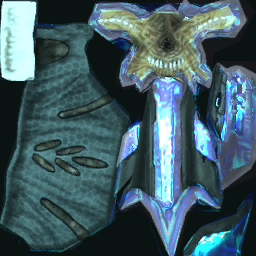
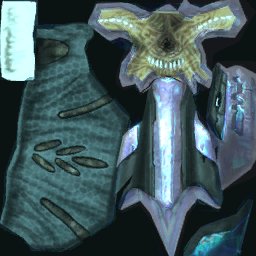
Ranger helmet in its body's material, cube-mapped eye lenses; deep-fried skin check
- The Ranger's helmet is baked like its body (the steel recolour and the Elites' armour reflection), brought down
  to the body's tone first; the Ranger's armour reflection is gentler overall
- The Ranger's eye lenses use the visor shader (a cube map per pixel), their normals bowed so it sweeps across them
- skin_check.py: every baked skin is scored against its source after each build (blown highlights, washed-out
  glare, brightness lift, crushed blacks, over-sharpening); HCE_STRICT_SKINS=1 fails the build

Claude-Session: https://claude.ai/code/session_01Ja8vbkayn83DPTjJrhXLXZ

diff --git a/docs/PACK_README.md b/docs/PACK_README.md
@@ -309,7 +309,7 @@ DoomEdNums 30284–30316 (alphabetical: `HCE_MarineArmoredBattleRifle` … `HCE_
   * They get the same baked armour shine as the other Grunts, and are in the `HCE_RandomGrunt` / `HCE_RandomGruntSpecOps` spawners; Doom's monsters aren't replaced by them.
 * **Elite Heavy (new, green):** a rank between the Major and the Commander, in a deep green (the blue Minor's painted armour turned green, its shading and shine kept): 125 health and a 200-point shield, the Major's combat behaviour, and the heavier guns: the fuel rod in Halo 2's fuel-rod stance (`HCE_EliteHeavyFuelRod`, 30322), the plasma rifle (`HCE_EliteHeavyPlasmaRifle`, 30324) and the needler (`HCE_EliteHeavyNeedler`, 30323). In the random Elite pool, and among the Hell Knights' replacements on the harder skill levels.
 * **Honor Guard Elites (new):** the High Council's guard in Halo 2's honour armour, worn over the Halo CE Elite (`extract_h2_elite_kit.py`: Halo 2's Elite and Halo CE's are the same skeleton, so its pieces are carried bone by bone onto the CE Elite and play every CE animation). The tall twin-crested ceremonial helmet over Halo 2's Elite head, and the honour plates on the shoulders, arms and thighs, blue with their glowing red markings; the CE Elite's own head and helmet are cut away underneath, so nothing clashes. The Commander's build (they guard the Prophets) in a crimson harness, with the **plasma rifle** (`HCE_EliteHonorGuardPlasmaRifle`, 30345), the **energy sword** (`HCE_EliteHonorGuardEnergySword`, 30344, charging and berserk like the sword Elites) or the **plasma carbine** (`HCE_EliteHonorGuardPlasmaCarbine`, 30457, Digsite add-on): the Honor Guards' guns in Halo's fiction. A severed head takes the helmet with it, a severed arm its plates.
-* **Ranger Elites (new):** Halo 2's EVA Elites from Regret's towers, with a **jump pack**. Halo 2's sealed Ranger helmet, with its gold lens, over the CE Elite with its own head cut away, and Halo 2's jump pack on its back (placed where Halo 2's Ranger carries it), in pale EVA steel. A Minor's build (Halo 2's `elite_ranger` char: 30 body, 70 shield), with the **plasma rifle** (`HCE_EliteRangerPlasmaRifle`, 30347), the **needler** (`HCE_EliteRangerNeedler`, 30346) or the **plasma carbine** (`HCE_EliteRangerPlasmaCarbine`, 30458, Digsite add-on).
+* **Ranger Elites (new):** Halo 2's EVA Elites from Regret's towers, with a **jump pack**. Halo 2's sealed Ranger helmet, with its gold eye lenses (reflecting a cube map per pixel like the ODST visors, the glass bowed so the reflection sweeps across it), over the CE Elite with its own head cut away, and Halo 2's jump pack on its back (placed where Halo 2's Ranger carries it), in pale EVA steel; the helmet is baked in the same material as the body (the same steel and the same, gentler, armour reflection). A Minor's build (Halo 2's `elite_ranger` char: 30 body, 70 shield), with the **plasma rifle** (`HCE_EliteRangerPlasmaRifle`, 30347), the **needler** (`HCE_EliteRangerNeedler`, 30346) or the **plasma carbine** (`HCE_EliteRangerPlasmaCarbine`, 30458, Digsite add-on).
   * **The jump pack:** now and then in a fight, with its enemy in sight, a Ranger fires the pack and lifts onto higher ground near by (a ledge, a crate, a balcony with room to stand) or, with none, hops to a fresh spot at fighting range. It climbs on a jet of blue exhaust and drifts down slowly on the pack, firing as it goes; spots are open floor (never a damaging one) with headroom, no wall in the way at the height of the hop and not too close to the enemy. HaloDoom Evolved's jetpack sounds where HDE is loaded.
 * **Fuel-rod Elite (new, `HCE_EliteMajorFuelRod`, 30282):** a Major Elite with the fuel rod gun, in **Halo 2's fuel-rod stance**. Halo CE's and Halo 2's Elites are the same 3ds Max biped: every CE bone has a Halo 2 twin with the same parent and the same offset in its parent's frame, so Halo 2's animations play on the CE Elite as they are (`h2_elite_anims.py`). It gets Halo 2's fuel-rod idle, moves, turns, dives, evades, grenade throw, berserk, melee and the firing overlay. Its firing data is the Spec Ops Grunt's fuel rod; it drops HDE's fuel rod.
 * **Beam-rifle Spec Ops Elite (new, `HCE_EliteSpecopsBeamRifle`, 30283):** the Spec Ops plasma-rifle Elite with Halo 2's beam rifle, in Halo 2's own Elite rifle stance (the same rig match), fighting from further back (combat range 480–1760).
